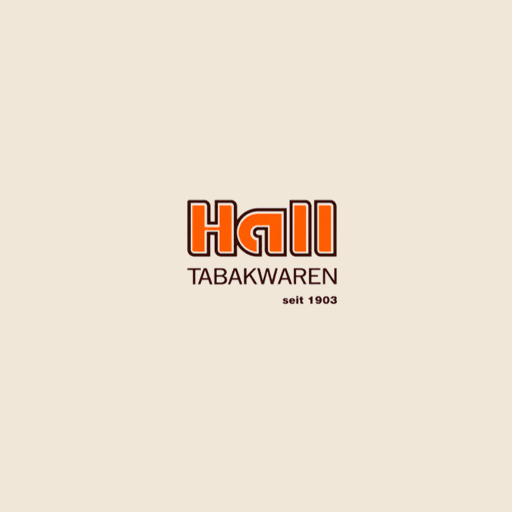
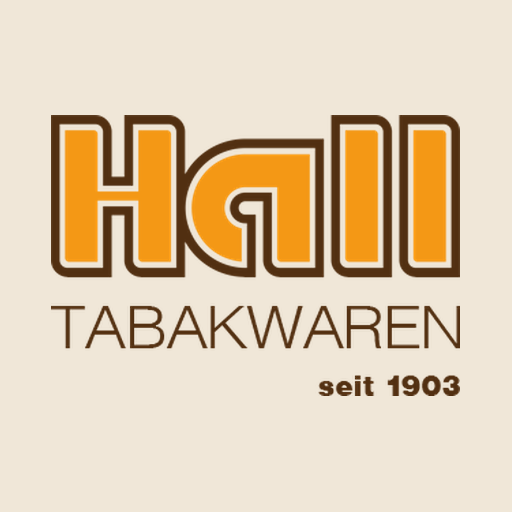
Nachtbild-Auftritt: Splash und Startseite mit gluehender Hall-Reklame
Mirkos Wunsch (05.09.2026): ein Hintergrund, "der mit Hall zu tun hat,
irgendwas aus deren webseite". Vorbild ist der Kopfbereich von
halltabakwaren.de - das historische Nachtfoto des Ladens mit seinen
Leuchtreklamen.

Vorerst NUR fuer Mirko (istMirko). Kollegen sehen unveraendert die helle
Oberflaeche - gegengeprueft, siehe unten.

SPLASH
- Das Nachtfoto zoomt sehr langsam heran (54 s je Richtung)
- Die Reklame darin glueht: das grosse Hall-Zigarren-Signet, "HALL",
  "HANDELSGOLD", "GROSSVERTRIEB ZIGARREN", die kleine HALL-Fahne und die
  Schaufenster. Die Leucht-Maske entsteht aus den hellsten Stellen des
  Fotos (neon-maske.py) - niemand musste Bereiche von Hand einzeichnen
- VIER Lagen derselben Maske, mit "screen" uebereinandergelegt. Dadurch
  addiert sich die Helligkeit: weiss-heisser Kern, farbiger Schein aussen.
  Genau so verhaelt sich eine echte Leuchtroehre; eine einzelne Lage
  schafft das nicht, egal wie hell man sie stellt
- Leucht-Art "Aufladen" (von Mirko aus vier Varianten gewaehlt): wird
  stetig heller, stockt kurz beim Anlaufen, leuchtet voll auf, faengt von
  vorne an. Staerke 7 von 10, Rauch 0 - deshalb ist der Rauch gar nicht
  erst eingebaut
- Der Splash steht nur 1,5 s, ein Aufladen dauert 5. Ohne Vorlauf saehe man
  ihn immer im dunkelsten Viertel; mit -2,8 s Startversatz waechst er
  waehrend der ganzen Standzeit
- "seit 1903" leuchtet in denselben Farben mit, die Begruessung bleibt
  bewusst ruhig (ausdruecklich so gewuenscht)
[…]

Changed region(s): [[0.0938, 0.2188, 0.9062, 0.6875], [0.625, 0.7188, 0.9062, 0.7812]]

diff --git a/index.html b/index.html
@@ -603,6 +603,171 @@
     font-size: 0.7rem; color: #fff; opacity: .55; letter-spacing: .3px;
   }
 
+  /* ===================== Nachtbild-Auftritt =====================
+     Entstanden am 05.09.2026 aus Mirkos Wunsch nach einem Hintergrund
+     "der mit Hall zu tun hat". Vorbild ist der Kopfbereich von
+     halltabakwaren.de: das historische Nachtfoto des Ladens mit seinen
+     Leuchtreklamen.
+
+     Vorerst NUR fuer Mirko (istMirko). Kollegen sehen unveraendert die
+     helle Oberflaeche. Zwei Schalter:
+       #splashScreen.nacht  - das Startbild beim Oeffnen
+       body.nacht-start     - die Kachel-Startseite
+
+     Bewegt werden ausschliesslich transform und opacity. Das laeuft auf
+     der Grafikeinheit, kostet praktisch keinen Akku und zwingt den
+     Browser zu keinem neuen Seitenaufbau.
+
+     Einstellungen von Mirko (05.09.2026): Leucht-Art "Aufladen",
+     Neon-Staerke 7 von 10 (= 0.79), Rauch 0 - deshalb ist der Rauch
+     hier gar nicht erst eingebaut. */
+  :root { --neon: .79; }
+
+  .nacht-lage { position: absolute; inset: 0; pointer-events: none; }
+
+  /* Das Foto, sehr langsam heranzoomend */
+  .nacht-foto {
+    background: url("hall-nachtbild.jpg") 50% 42%/cover no-repeat;
+    animation: nachtZoom 54s ease-in-out infinite alternate;
+    will-change: transform;
+  }
+  @keyframes nachtZoom { from { transform: scale(1.04); } to { transform: scale(1.17); } }
+
+  /* Die Leuchtreklame: VIER Lagen derselben Maske, mit "screen"
+     uebereinandergelegt. Dadurch addiert sich ihre Helligkeit - weiss-
+     heisser Kern, farbiger Schein aussen. Genau so verhaelt sich eine
+     echte Leuchtroehre; eine einzelne Lage schafft das nicht, egal wie
+     hell man sie stellt. */
+  .nacht-kern, .nacht-nah, .nacht-weit, .nacht-raum {
+    background: url("hall-nachtbild-neon.png") 50% 42%/cover no-repeat;
+    mix-blend-mode: screen; will-change: opacity;
+    animation: nachtZoom 54s ease-in-out infinite alternate,
+               nachtAufladen 5s ease-in infinite;
+  }
+  .nacht-kern { filter: brightness(1.85) saturate(.55); }
+  .nacht-nah  { filter: blur(5px)  brightness(1.70) saturate(1.5); }
+  .nacht-weit { filter: blur(20px) brightness(1.50) saturate(2.2); }
+  .nacht-raum { filter: blur(55px) brightness(1.35) saturate(2.4); }
+
+  /* "Aufladen": wird stetig heller, stockt kurz beim Anlaufen, leuchtet
+     voll auf und faengt von vorne an (Mirkos Wunsch: "immer etwas heller
+     wird und dann wieder von vorne aufleuchtet"). */
+  @keyframes nachtAufladen {
+    0%   { opacity: calc(.12 * var(--neon)); }
+    8%   { opacity: calc(.30 * var(--neon)); }
+    10%  { opacity: calc(.16 * var(--neon)); }
+    45%  { opacity: calc(.62 * var(--neon)); }
+    85%  { opacity: var(--neon); }
+    92%  { opacity: var(--neon); }
+    100% { opacity: calc(.12 * var(--neon)); }
+  }
+
+  /* Glut am unteren Rand + aufsteigende Funken */
+  .nacht-glut {
+    background: radial-gradient(ellipse at 50% 108%, rgba(222,112,8,.75), transparent 62%);
+    filter: blur(20px); animation: nachtGlimmen 8s ease-in-out infinite;
+  }
+  @keyframes nachtGlimmen { 0%,100% { opacity:.6 } 50% { opacity:1 } }
+  .nacht-funke {
+    position: absolute; bottom: -4%; border-radius: 50%;
+    background: radial-gradient(circle, #ffe0ae, rgba(222,112,8,.25) 55%, transparent 70%);
+    will-change: transform, opacity;
+  }
+  @keyframes nachtSteigen {
+    0%   { transform: translate(0,0) scale(.6); opacity: 0; }
+    10%  { opacity: 1; }
+    100% { transform: translate(var(--drift), calc(-1 * var(--weg))) scale(1.2); opacity: 0; }
+  }
+
+  /* ---- Splash im Nachtbild-Auftritt ---- */
+  /* Der Text rutscht nach unten: mittig saesse er genau auf dem
+     Hall-Signet, und beides waere schlechter zu lesen. Unten liegt
+     ohnehin der dunkelste Teil des Schleiers. */
+  #splashScreen.nacht { background: #140800; justify-content: flex-end; padding-bottom: 58px; }
+  #splashScreen.nacht > img { display: none; }   /* die Reklame IM Foto ist das Logo */
+  #splashScreen.nacht .nacht-schleier {
+    background: linear-gradient(180deg, rgba(20,8,0,.55) 0%, rgba(20,8,0,.10) 32%,
+                rgba(20,8,0,.55) 68%, rgba(20,8,0,.92) 100%);
+  }
+  /* Nur der Textblock und die Fusszeile nach vorn - NICHT die Bildebenen.
+     Ohne das :not() traf diese Regel auch die .nacht-lage-Ebenen, setzte
+     sie auf position:relative und damit auf 0 x 0. Der Splash war
+     stockdunkel, obwohl alle Dateien geladen waren. */
+  #splashScreen.nacht > div:not(.nacht-lage):not(.splash-credit) { position: relative; z-index: 5; }
+  /* Die Fusszeile bleibt absolut am unteren Rand - nur nach vorn holen. */
+  #splashScreen.nacht .splash-credit { z-index: 5; }
+  #splashScreen.nacht h2 { text-shadow: 0 2px 12px rgba(0,0,0,.85); }
+  /* "seit 1903" leuchtet in denselben Farben wie die Reklame und macht
+     die Leucht-Art mit (Mirko: "das soll auch mit dem rest des bildes
+     neon farbend mit machen"). Die Begruessung bleibt bewusst ruhig -
+     ausdruecklich so gewuenscht. */
+  #splashScreen.nacht .splash-jahr {
+    color: #fff3e0;
+    text-shadow: 0 0 4px #fff2dc, 0 0 12px #ffa53a, 0 0 28px #de7008,
+                 0 0 60px #de7008, 0 2px 10px rgba(0,0,0,.75);
+    animation: nachtAufladen 5s ease-in infinite;
+  }
+  #splashScreen.nacht .splash-greeting,
+  #splashScreen.nacht .splash-month { text-shadow: 0 2px 8px rgba(0,0,0,.8); }
+
+  /* ---- Kachel-Startseite im Nachtbild-Auftritt ----
+     Hier bewusst KEIN Foto: die Startseite sieht man bei jedem Oeffnen
+     und bei jedem Ruecksprung. Ein Foto mit Text darueber wird auf Dauer
+     unruhig. Stattdessen dunkle Nacht, Glut, Funken - und das Logo als
+     weisse Leuchtroehre ueber den Kacheln. */
+  body.nacht-start { background: #150900; }
+  #nachtStartHg {
+    position: fixed; inset: 0; z-index: -1; pointer-events: none; overflow: hidden;
+    background: radial-gradient(ellipse at 50% 118%, #3d1d05, #150900 72%);
+  }
+  body.nacht-start h1 { color: #f7e6cf; }
+  body.nacht-start .footer-hinweis, body.nacht-start footer { color: #c9b49c; }
+
+  /* Das Logo als Leuchtroehre, ueber den Kacheln (Mirko, 05.09.2026:
+     "koennte man es auch ueber die kacheln setzen und die kacheln
+     drunter bauen" - und: "weisse neon silouette nehmen wir ebenfalls
+     statt das orginal logo"). Das Logo dient nur als Schablone fuer eine
+     leuchtende Flaeche; der Schein liegt auf dem AEUSSEREN Element, weil
+     filter vor mask angewendet wird. */
+  #nachtStartLogo { display: none; }
+  body.nacht-start #nachtStartLogo {
+    display: flex; justify-content: center; margin: 4px 0 20px;
+  }
+  #nachtStartLogo span {
+    display: block; width: 62%; max-width: 230px; padding-bottom: 42.6%;  /* 300x206 */
+    background: #fff3e0;
+    -webkit-mask: url("hall-logo-original.png") center/contain no-repeat;
+            mask: url("hall-logo-original.png") center/contain no-repeat;
+  }
+  #nachtStartLogo {
+    filter: drop-shadow(0 0 4px #fff2dc) drop-shadow(0 0 14px #ffa53a)
+            drop-shadow(0 0 34px #de7008) drop-shadow(0 0 70px #de7008);
+    animation: nachtAufladen 5s ease-in infinite;
+  }
+
+  /* Kacheln auf dunklem Grund: kein Weiss mehr (Mirko: "so weiss ist
+     doof"), sondern dunkles, leicht durchscheinendes Glas mit warmem
+     Rand - das Nachtgefuehl bleibt, die Schrift bleibt lesbar. */
+  body.nacht-start .kachel-btn {
+    background: rgba(38,18,4,.58);
+    border: 1px solid rgba(222,112,8,.40);
+    color: #f7e6cf;
+    box-shadow: 0 2px 14px rgba(0,0,0,.45), inset 0 1px 0 rgba(255,200,140,.14);
+    -webkit-backdrop-filter: blur(7px); backdrop-filter: blur(7px);
+  }
+  body.nacht-start .heute-tag, body.nacht-start .heute-datum { color: #e8d5bd; }
+  body.nacht-start .heute-chip { background: rgba(38,18,4,.6); color: #f7e6cf;
+                                 border: 1px solid rgba(222,112,8,.35); }
+
+  /* Wer am Geraet "Bewegung reduzieren" eingeschaltet hat, bekommt ein
+     ruhiges Standbild statt der Animation - gehoert zu jeder Animation
+     dazu. */
+  @media (prefers-reduced-motion: reduce) {
+    .nacht-foto, .nacht-kern, .nacht-nah, .nacht-weit, .nacht-raum,
+    .nacht-glut, .nacht-funke, #nachtStartLogo,
+    #splashScreen.nacht .splash-jahr { animation: none !important; }
+  }
+
   /* ===================== Fahrzeug-Inventur ===================== */
   .inv-kopfzeile { display:flex; gap:12px; align-items:baseline; flex-wrap:wrap; margin:0 0 12px; }
   .inv-kopfzeile h2 { margin:0; font-size:1.15rem; }
@@ -1224,7 +1389,20 @@
 <body>
 
 <div id="splashScreen" class="no-print">
-  <img src="hall-logo.png" alt="Hall Tabakwaren">
+  <!-- Bildebenen des Nachtbild-Auftritts. Sie sind immer im Markup, aber
+       nur sichtbar, wenn #splashScreen die Klasse "nacht" traegt - die
+       setzt initSplash() ausschliesslich fuer Mirko. -->
+  <div class="nacht-lage nacht-foto"></div>
+  <div class="nacht-lage nacht-raum"></div>
+  <div class="nacht-lage nacht-weit"></div>
+  <div class="nacht-lage nacht-nah"></div>
+  <div class="nacht-lage nacht-kern"></div>
+  <div class="nacht-lage nacht-glut"></div>
+  <!-- Eigener Behaelter fuer die Funken. Haengen sie direkt am Splash,
+       werden sie zu Flex-Elementen und schieben den Text hoch. -->
+  <div class="nacht-lage nacht-funken" id="splashFunken"></div>
+  <div class="nacht-lage nacht-schleier"></div>
+  <img src="hall-logo-original.png" alt="Hall Tabakwaren">
   <div>
     <h2 data-i18n="pageTitle">Hall Tabakwaren</h2>
     <div class="splash-subtitle" data-i18n="splashSubtitle">Spesen-Rechner</div>
@@ -1235,7 +1413,11 @@
   <div class="splash-credit">built for Hall Tabakwaren by Mirko Rieb</div>
 </div>
 
-<h1 class="no-print"><img src="hall-logo.png" alt="Hall Tabakwaren" style="height:40px; vertical-align:middle; margin-right:10px;"><span data-i18n="h1Title">Spesen-Rechner &ndash; Pauschalspesen für Dienstreisen</span></h1>
+<!-- Logo: das Original von der Firmenwebseite. Die alte Datei hall-logo.png
+     hatte einen weissen Hintergrund und rundum Weissraum - auf der weissen
+     Kopfzeile faellt das nicht auf, auf dunklem Grund schon. Fuer Kollegen
+     aendert sich dadurch optisch nichts. -->
+<h1 class="no-print"><img src="hall-logo-original.png" alt="Hall Tabakwaren" style="height:40px; vertical-align:middle; margin-right:10px;"><span data-i18n="h1Title">Spesen-Rechner &ndash; Pauschalspesen für Dienstreisen</span></h1>
 
 <div class="toolbar no-print">
   <!-- Reihenfolge getauscht (Werkzeugleiste & Hauptkategorien Redesign,
@@ -1303,6 +1485,12 @@
      tabJahr) - ein Label, zwei Darstellungen, keine Duplikate im
      I18N-Dictionary. -->
 <div id="kachelStartseite" class="no-print">
+  <!-- Hintergrund und Leuchtschild des Nachtbild-Auftritts. Beide liegen
+       INNERHALB der Kachel-Startseite und verschwinden dadurch von selbst,
+       sobald ein Bereich geoeffnet wird. Sichtbar nur mit body.nacht-start
+       (gesetzt in zeigeKachelStartseite(), nur fuer Mirko). -->
+  <div id="nachtStartHg" aria-hidden="true"></div>
+  <div id="nachtStartLogo" aria-hidden="true"><span></span></div>
   <!-- "Heute": Kopfbereich ueber den Kacheln. Wer die App zum zweiten Mal
        oeffnet, soll seinen Stand sehen statt einer Menuetafel - ein grosser
        Knopf auf die zuletzt offene Aufgabe. Vorerst nur fuer Mirko sichtbar
@@ -2410,6 +2598,19 @@ function initSplash() {
   const jahrEl = document.getElementById("splashJahr");
   if (jahrEl) jahrEl.textContent = istMirko() ? "seit 1903" : "";
 
+  /* Nachtbild-Auftritt einschalten - vorerst nur fuer Mirko. */
+  const splashEl = document.getElementById("splashScreen");
+  if (splashEl && istMirko()) {
+    splashEl.classList.add("nacht");
+    nachtFunkenBauen(document.getElementById("splashFunken"), 20);
+    /* Der Splash steht nur 1,5 Sekunden, ein Aufladen dauert 5. Ohne
+       Vorlauf saehe man ihn immer im dunkelsten Viertel. Mit -2,8 s
+       startet er bei rund zwei Dritteln und wird waehrend der ganzen
+       Standzeit heller - man sieht also genau den Teil, um den es geht. */
+    splashEl.querySelectorAll(".nacht-kern,.nacht-nah,.nacht-weit,.nacht-raum,.splash-jahr")
+      .forEach((el) => { el.style.animationDelay = "-2.8s"; });
+  }
+
   setTimeout(function () {
     const el = document.getElementById("splashScreen");
     if (el) el.style.display = "none";
@@ -2905,6 +3106,8 @@ function zeigeTab(tab) {
   // wieder eingeblendet, nicht schon auf der Kachel-Seite.
   const kachelEl = document.getElementById("kachelStartseite");
   if (kachelEl) kachelEl.style.display = "none";
+  // Nachtbild nur auf der Startseite - die Arbeitsbereiche bleiben hell.
+  document.body.classList.remove("nacht-start");
   const mainTabsEl = document.getElementById("mainTabs");
   if (mainTabsEl) mainTabsEl.style.display = "";
   // Bugfix (finale Whole-Branch-Review, Befund 4): Auf Urlaub/Jahresuebersicht/
@@ -3069,9 +3272,38 @@ function heuteKachelZahl(tab, text) {
   el.textContent = text;
 }
 
+/* Funken fuer den Nachtbild-Auftritt. Jeder bekommt eigene Groesse,
+   Laufzeit, Drift und einen negativen Start, damit sie schon unterwegs
+   sind statt gleichzeitig loszulaufen - sonst sieht man das Muster. */
+function nachtFunkenBauen(behaelter, anzahl) {
+  if (!behaelter || behaelter.dataset.funken) return;
+  const hoehe = window.innerHeight || 800;
+  for (let i = 0; i < anzahl; i++) {
+    const f = document.createElement("div");
+    f.className = "nacht-funke";
+    const g = 2 + Math.random() * 4.5;
+    f.style.width = g + "px";
+    f.style.height = g + "px";
+    f.style.left = (Math.random() * 100) + "%";
+    f.style.setProperty("--drift", (Math.random() * 70 - 35) + "px");
+    f.style.setProperty("--weg", (hoehe * (0.75 + Math.random() * 0.45)) + "px");
+    f.style.animation = "nachtSteigen " + (8 + Math.random() * 9).toFixed(1) + "s linear infinite";
+    f.style.animationDelay = (-Math.random() * 16).toFixed(1) + "s";
+    behaelter.appendChild(f);
+  }
+  behaelter.dataset.funken = "1";
+}
+
 function zeigeKachelStartseite() {
   const kachelEl = document.getElementById("kachelStartseite");
   if (kachelEl) kachelEl.style.display = "";
+  /* Nachtbild-Auftritt der Startseite - nur fuer Mirko. Die Klasse haengt
+     am body, weil auch Kopfzeile und Kacheln umgefaerbt werden muessen;
+     sie faellt in zeigeTab() wieder weg, damit die Arbeitsbereiche hell
+     bleiben. */
+  document.body.classList.toggle("nacht-start", istMirko());
+  const hg = document.getElementById("nachtStartHg");
+  if (hg && istMirko()) nachtFunkenBauen(hg, 18);
   heuteAktualisieren();
   const mainTabsEl = document.getElementById("mainTabs");
   if (mainTabsEl) mainTabsEl.style.display = "none";
@@ -8293,7 +8525,7 @@ oeffneAusAnker();
    neueste Version, ohne selbst "hart neu laden" zu müssen. Alle Daten liegen lokal
    im Browser und gehen dabei NICHT verloren. */
 (function () {
-  const APP_VERSION = "2026-09-05-27"; // bei jeder Änderung zusammen mit version.txt hochzählen
+  const APP_VERSION = "2026-09-05-28"; // bei jeder Änderung zusammen mit version.txt hochzählen
   async function checkForUpdate() {
     try {
       const r = await fetch("version.txt?cb=" + Date.now(), { cache: "no-store" });

diff --git a/sw.js b/sw.js
@@ -34,7 +34,7 @@
    dabei aendern, sonst installiert der Browser den neuen Worker nicht.
 */
 
-const CACHE_VERSION = "2026-09-05-27";
+const CACHE_VERSION = "2026-09-05-28";
 const CACHE_NAME = "hall-spesen-" + CACHE_VERSION;
 
 /* Was beim Installieren mitgenommen wird, damit auch der allererste
@@ -45,6 +45,9 @@ const SHELL = [
   "./index.html",
   "./Anleitung.html",
   "./hall-logo.png",
+  "./hall-logo-original.png",
+  "./hall-nachtbild.jpg",
+  "./hall-nachtbild-neon.png",
   "./app/",
   "./app/index.html",
   "./app/manifest.json",
